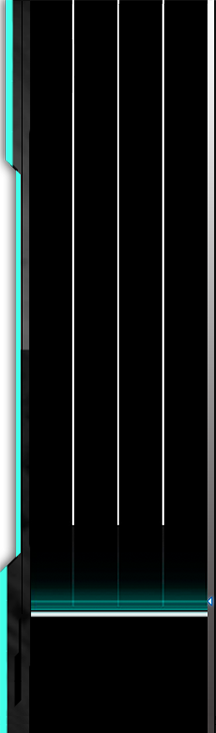
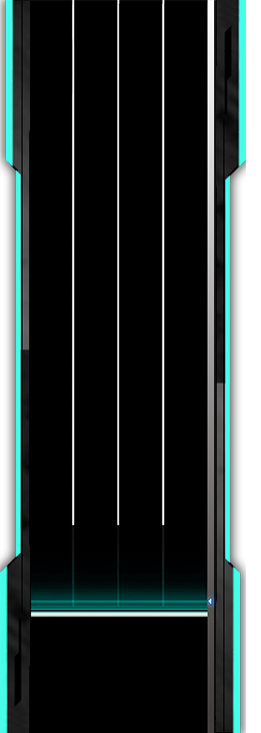
Изменение надписей во время игры, вспышки от нот

diff --git a/Game.py b/Game.py
@@ -3,7 +3,6 @@ import math
 from GameParameter import clock, fps, display
 from GameEffects import drawing_text
 
-
 key0_image = pygame.image.load('skin/key0.png')
 key1_image = pygame.image.load('skin/key1.png')
 key0d_image = pygame.image.load('skin/key0d.png')
@@ -14,7 +13,7 @@ note1_image = pygame.image.load('skin/note1.png')
 note1s_image = pygame.image.load('skin/note1s.png')
 stage_image = pygame.image.load('skin/stage.png')
 stage_light_image = pygame.image.load('skin/stage_light.png')
-
+lightning_image = pygame.image.load('skin/lighting.png')
 hit0 = pygame.image.load('skin/hit0.png')
 hit50 = pygame.image.load('skin/hit50.png')
 hit100 = pygame.image.load('skin/hit100.png')
@@ -24,7 +23,7 @@ hit301 = pygame.image.load('skin/hit300g.png')
 
 v = 1000  # px/second
 st_x = 400
-time_uprise = 604#((720 - 116) / v * 1000) // 1
+time_uprise = 604  # ((720 - 116) / v * 1000) // 1
 keyboard = [pygame.K_d, pygame.K_f, pygame.K_j, pygame.K_k]
 
 
@@ -55,7 +54,7 @@ class Slider(pygame.sprite.Sprite):
             note_image = note1s_image
         self.h = math.floor((finish - start) * v / 1000)
         self.image = pygame.Surface((43, self.h))
-        self.rect = self.image.get_rect(x=st_x + 30 + 45 * column, y=-self.h )
+        self.rect = self.image.get_rect(x=st_x + 30 + 45 * column, y=-self.h)
         for i in range(math.floor(self.h // 14)):
             self.image.blit(note_image, (0, i * 14))
         ost = int(self.h % 14)
@@ -115,10 +114,35 @@ class Game:
         pygame.mixer.music.load(f'Songs/{self.map.dir}/{self.map.general["AudioFilename"]}')
         pygame.mixer.music.set_volume(0.2)
         pygame.mixer.music.play(1)
+
+        score_surface = self.map.background.subsurface((650, 30, 290, 50))
+        self.score_surface = pygame.surface.Surface((290, 50))
+        self.score_surface.fill((0, 0, 0))
+        score_surface.set_alpha(100)
+        self.score_surface.blit(score_surface, (0, 0))
+
+        acc_surface = self.map.background.subsurface((650, 90, 150, 50))
+        self.acc_surface = pygame.surface.Surface((150, 50))
+        self.acc_surface.fill((0, 0, 0))
+        acc_surface.set_alpha(100)
+        self.acc_surface.blit(acc_surface, (0, 0))
+
+        combo_surface = self.map.background.subsurface((650, 150, 150, 50))
+        self.combo_surface = pygame.surface.Surface((150, 50))
+        self.combo_surface.fill((0, 0, 0))
+        combo_surface.set_alpha(100)
+        self.combo_surface.blit(combo_surface, (0, 0))
+
+        self.lightnings = [-1, -1, -1, -1]
+
     def render(self):
         self.time_now = (pygame.time.get_ticks() - self.time)
         display.fill((0, 0, 0), (430, 0, 45 * 4, 720))
         display.blit(stage_image, (st_x, 0))
+        keys = pygame.key.get_pressed()
+        for key in range(4):
+            if keys[keyboard[key]]:
+                display.blit(stage_light_image, (st_x + 30 + 45 * key, 617 - 737))
         if self.notes or self.notes_near or self.notes_active:
             self.update_notes()
         if self.sliders or self.sliders_pressed[0] != -1 or self.sliders_pressed[1] != -1 or self.sliders_pressed[
@@ -130,7 +154,7 @@ class Game:
         display.fill((0, 0, 0), (st_x + 30, 700, 45 * 4, 20))
         self.show_marks()
         self.show_points()
-        keys = pygame.key.get_pressed()
+
         if keys[pygame.K_d]:
             display.blit(key0d_image, (st_x + 30, 617))
         else:
@@ -148,6 +172,14 @@ class Game:
         else:
             display.blit(key0_image, (st_x + 30 + 45 * 3, 617))
 
+        for key in range(4):
+            self.lightnings[key] -= 20
+            if self.lightnings[key] >= 0:
+                lightning = lightning_image
+                lightning.set_alpha(self.lightnings[key])
+                display.blit(lightning, (
+                st_x + 30 + 45 * key + 45 // 2 - lightning.get_width() // 2, 617 - lightning.get_height() // 2))
+
     def update_sliders(self):
         time = self.time_now
         if self.sliders:
@@ -163,7 +195,7 @@ class Game:
             if time >= slider[-2]:
                 self.sliders_failed.pop(i)
 
-        for i in range(len(self.sliders_pressed) -1, -1, -1):
+        for i in range(len(self.sliders_pressed) - 1, -1, -1):
             if self.sliders_pressed[i] != -1:
                 sprite, slider = self.sliders_pressed[i]
                 display.blit(sprite.image, sprite.rect)
@@ -257,7 +289,9 @@ class Game:
         keys = pygame.key.get_pressed()
         time = (pygame.time.get_ticks() - self.time)
         for key in range(4):
+
             if keys[keyboard[key]]:
+
                 note_index = -1
                 c = 1e10
                 for i in range(len(self.notes_near)):
@@ -280,6 +314,7 @@ class Game:
                         self.marks.append([300, 0])
                     elif ms <= self.od_max:
                         self.marks.append([301, 0])
+                    self.lightnings[key] = 255
 
     def show_marks(self):
         flag = False
@@ -324,14 +359,16 @@ class Game:
                 self.accuracy = 100
         score = str(self.score)
         score = '0' * (10 - len(score)) + score
-        pygame.draw.rect(display, pygame.Color('black'), (650, 30, 290, 50))
-        drawing_text(score, (650, 40), pygame.Color('white'), font_size=40)
+        display.blit(self.score_surface, (650, 30))
+        drawing_text(score, (650, 40), pygame.Color('white'), font_size=40, font_type='corp_round_v1.ttf')
 
-        pygame.draw.rect(display, pygame.Color('black'), (650, 90, 150, 50))
-        drawing_text(str(int(self.accuracy)) + ' %', (660, 100), pygame.Color('white'), font_size=40)
+        display.blit(self.acc_surface, (650, 90))
+        drawing_text(str(int(self.accuracy)) + ' %', (650, 100), pygame.Color('white'), font_size=40,
+                     font_type='corp_round_v1.ttf')
 
-        pygame.draw.rect(display, pygame.Color('black'), (650, 150, 150, 50))
-        drawing_text(str(self.combo) + 'x', (650, 160), pygame.Color('white'), font_size=40)
+        display.blit(self.combo_surface, (650, 150))
+        drawing_text(str(self.combo) + 'x', (650, 160), pygame.Color('white'), font_size=40,
+                     font_type='corp_round_v1.ttf')
 
     def end_game(self):
         return self.time_now > self.end_time
